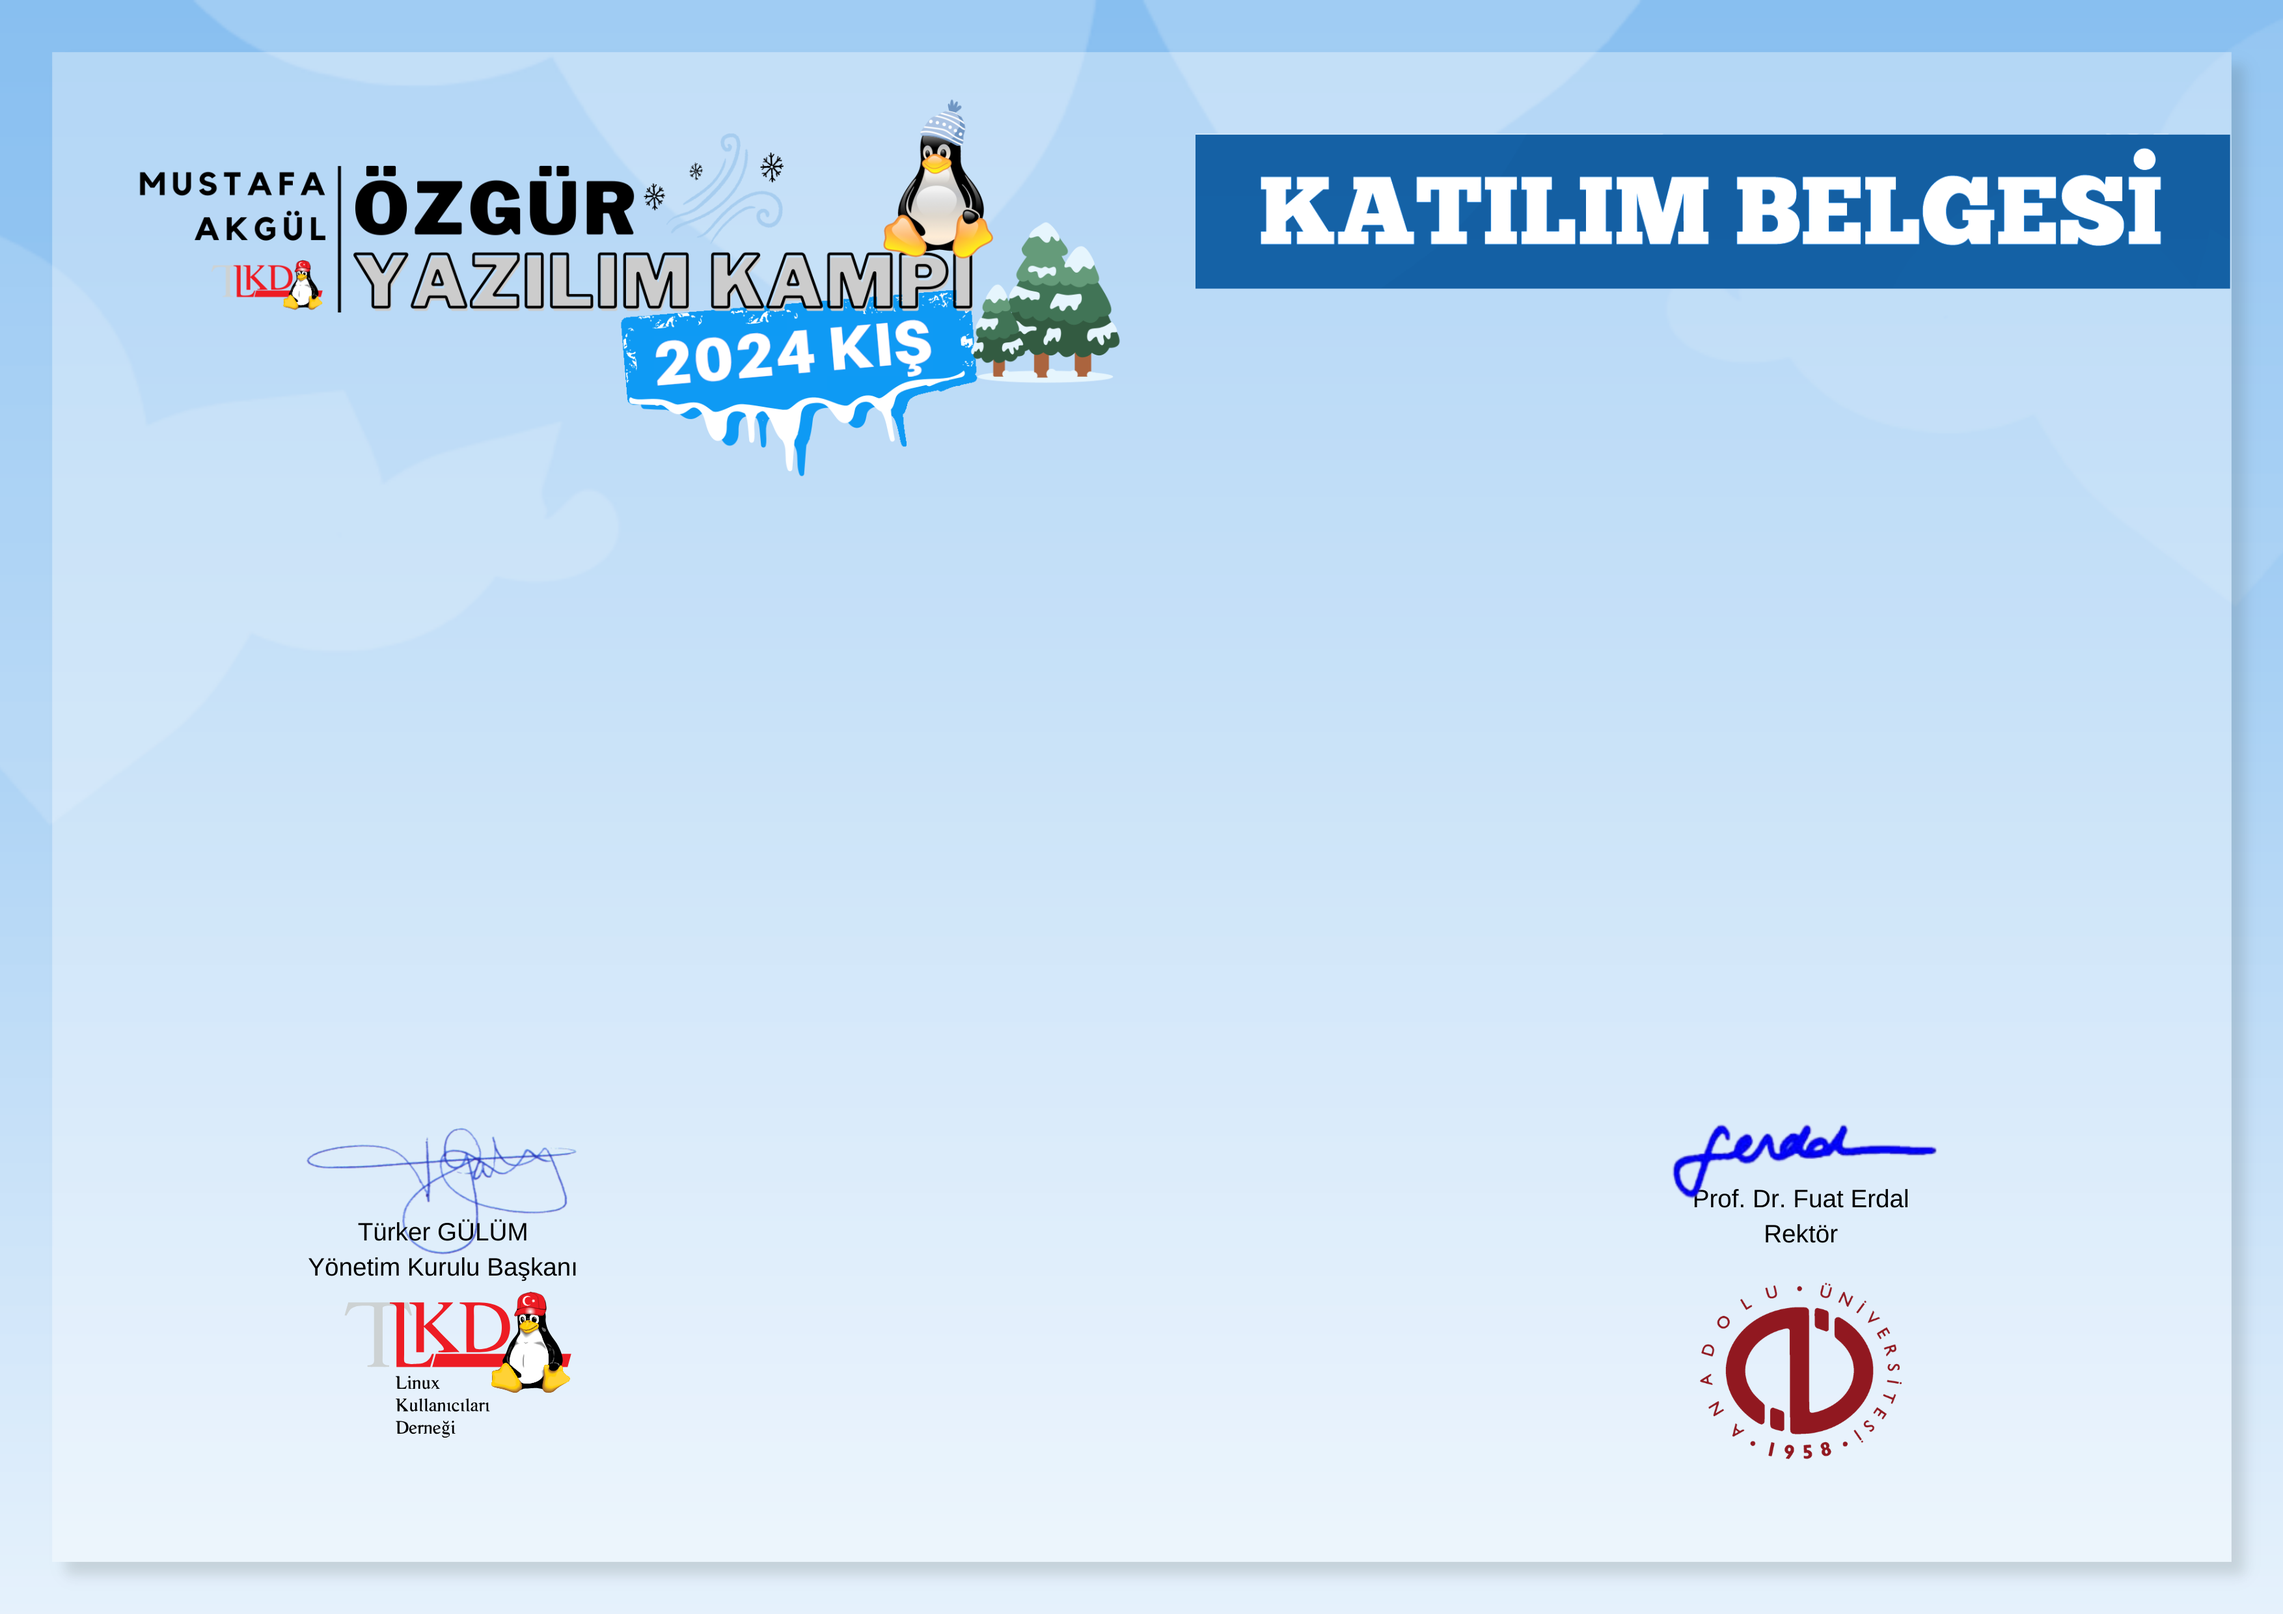
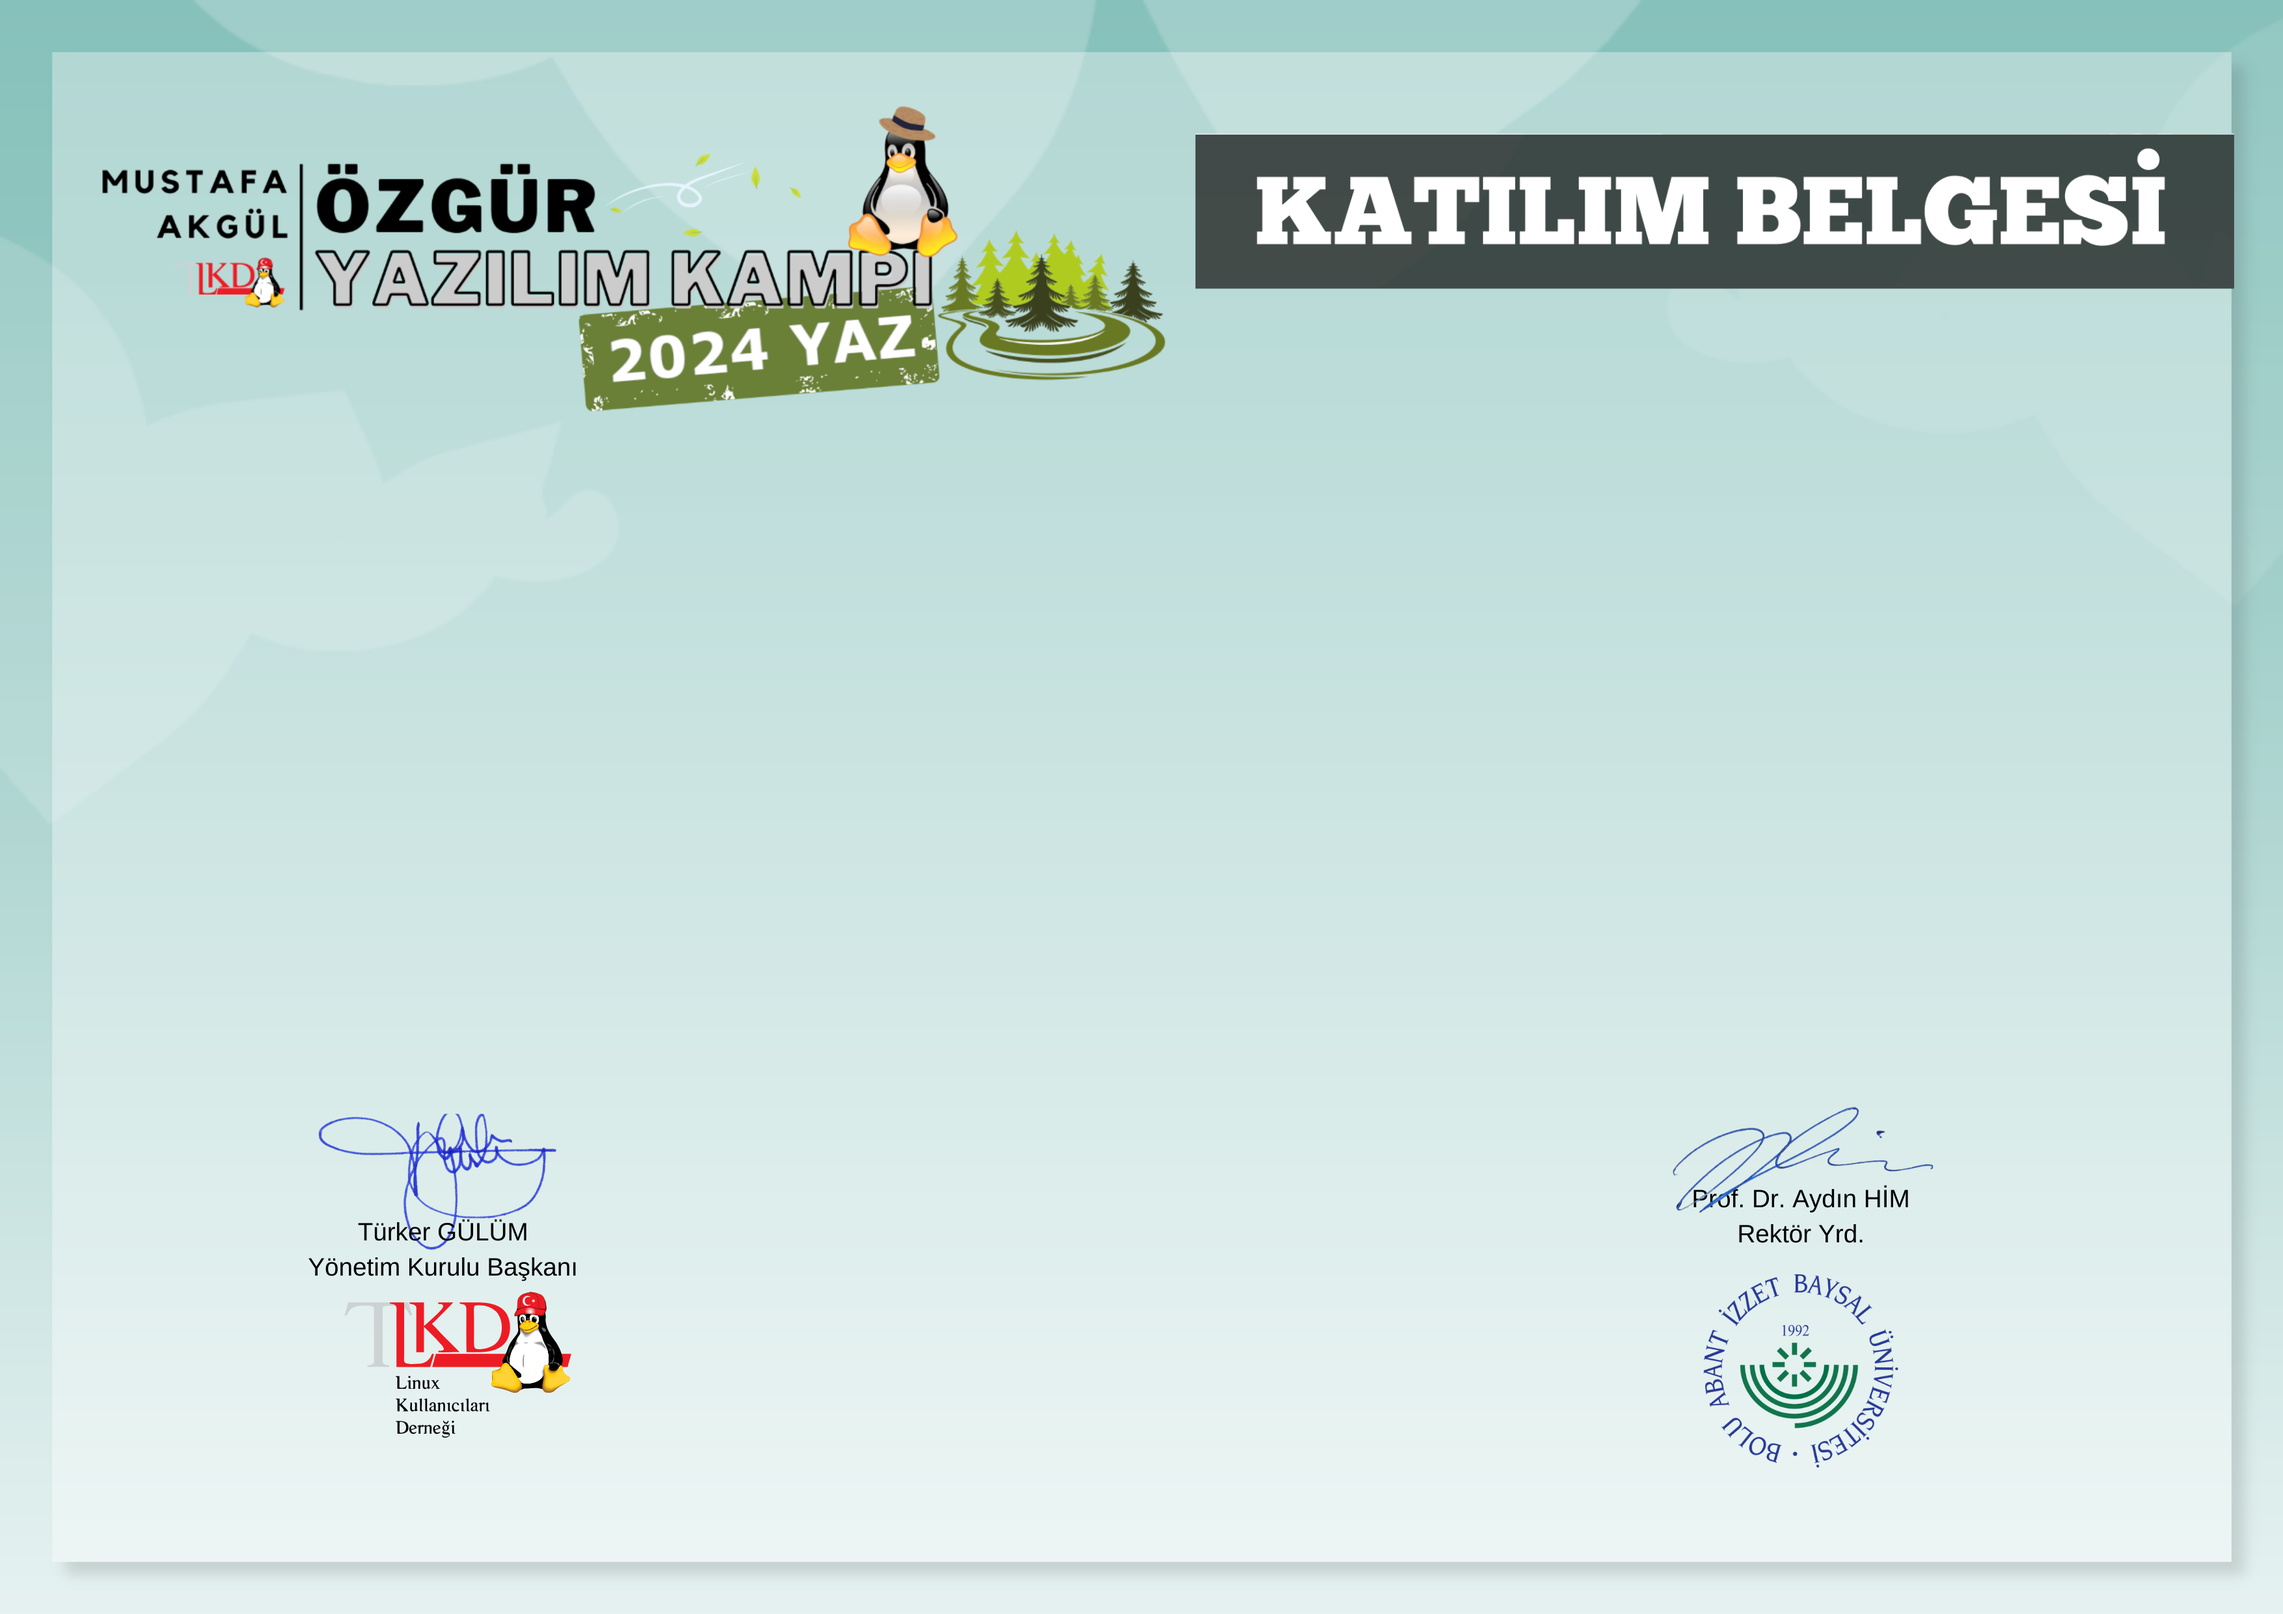
katılım bilgeleri

diff --git a/mudur/mudur/management/commands/generate_certs.py b/mudur/mudur/management/commands/generate_certs.py
@@ -9,8 +9,8 @@ from training.models import Certificate, TrainessCourseRecord
 from mudur.models import Site
 from training.models import TrainessParticipation
 
-TOTAL_COURSE_HOUR = 24
-MIN_TIME_TO_GET_CERTIFICATE = 15.0
+TOTAL_COURSE_HOUR = 66
+MIN_TIME_TO_GET_CERTIFICATE = 30.0
 
 class Command(BaseCommand):
     help = "Generates the certificate of participation"
@@ -21,7 +21,7 @@ class Command(BaseCommand):
 
     def generate_cert(self, site, user_profile, course_name, attendance_time):
         camp_year = site.event_start_date.year
-        camp_semester = "kis"
+        camp_semester = "yaz"
         cert_path = os.getcwd() + "/media/" + str(camp_year) + "/" + str(camp_semester) + "/certs/"
         self.create_cert_dir(cert_path)
 
@@ -34,9 +34,9 @@ class Command(BaseCommand):
             signature_font = ImageFont.truetype(os.getcwd() + "/mudur/management/commands/arial.ttf", 35)
 
             # Prepare the text
-            start_date = site.event_start_date.strftime("%d") + " Ocak"
-            end_date = site.event_end_date.strftime("%d") + " Şubat"
-            first_sentence = "{start_date} - {end_date} {camp_year} tarihleri arasında Anadolu Üniversitesi'nde düzenlenen".format(
+            start_date = site.event_start_date.strftime("%d")
+            end_date = site.event_end_date.strftime("%d") + " Ağustos"
+            first_sentence = "{start_date} - {end_date} {camp_year} tarihleri arasında Bolu Abant İzzet Baysal Üniversitesi'nde düzenlenen".format(
                 start_date=start_date, end_date=end_date, camp_year=camp_year
             )
 
